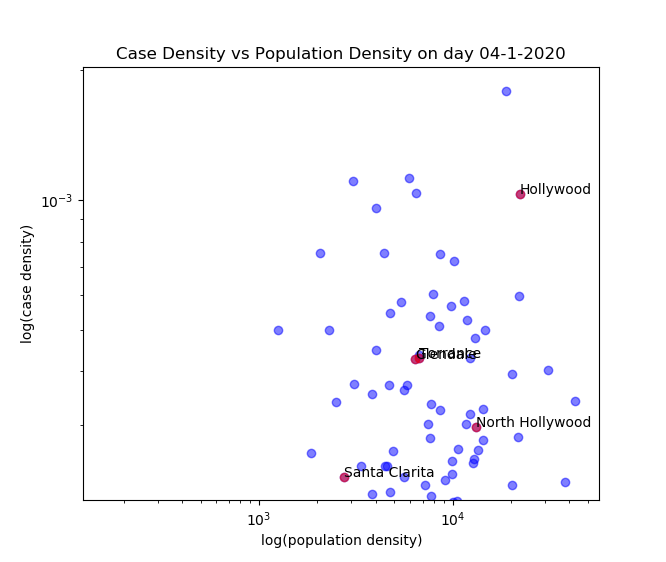
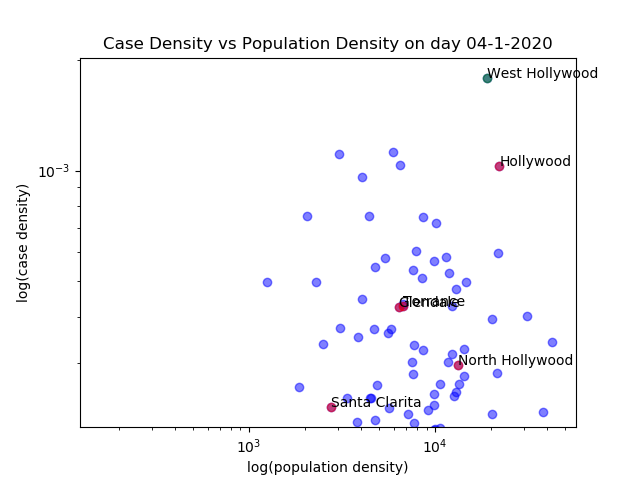
add highest density region

diff --git a/scripts/process_map.py b/scripts/process_map.py
@@ -287,6 +287,9 @@ def plot_caseden_popden(d):
     merged = pd.merge(caseden, popden, on='Region')
     colors = np.random.rand(len(merged))
 
+    maxden = merged.loc[merged['Density'].idxmax()]
+
+
     top6 = ['Melrose','Hollywood','Glendale','Santa Clarita', 'North Hollywood','Torrance']
     top6_df = merged[merged['Region'].isin(top6)] #Melrose not have density
     top6_df= top6_df.reset_index(drop=True)
@@ -300,9 +303,10 @@ def plot_caseden_popden(d):
     ax.set_yscale('log')
     ax.scatter(merged['Population Density'],merged['Density'], c='blue', alpha=0.5)
     ax.scatter(top6_df['Population Density'],top6_df['Density'], c='red', alpha=0.5)
-
+    ax.scatter(maxden['Population Density'],maxden['Density'], c='green', alpha=0.5)
     for i in range(0,5):
         ax.annotate(txt.loc[i].values[0],(z.loc[i].values[0],y.loc[i].values[0]))
+    ax.annotate(maxden['Region'],(maxden['Population Density'],maxden['Density']))
     t = 'Case Density vs Population Density on day %s'%(d)
     plt.title(t)
     plt.xlabel('Population Density')
@@ -314,9 +318,12 @@ def plot_caseden_popden(d):
     ax1.set_yscale('log')
     ax1.set_xscale('log')
     ax1.scatter(merged['Population Density'],merged['Density'], c='blue', alpha=0.5)
-    ax1.scatter(top6_df['Population Density'],top6_df['Density'], c='red', alpha=0.5)  
+    ax1.scatter(top6_df['Population Density'],top6_df['Density'], c='red', alpha=0.5)
+    ax1.scatter(maxden['Population Density'],maxden['Density'], c='green', alpha=0.5)
     for i in range(0,5):
         ax1.annotate(txt.loc[i].values[0],(z.loc[i].values[0],y.loc[i].values[0]))
+    ax1.annotate(maxden['Region'],(maxden['Population Density'],maxden['Density']))
+
     t = 'Case Density vs Population Density on day %s'%(d)
     plt.title(t)
     plt.xlabel('log(population density)')
